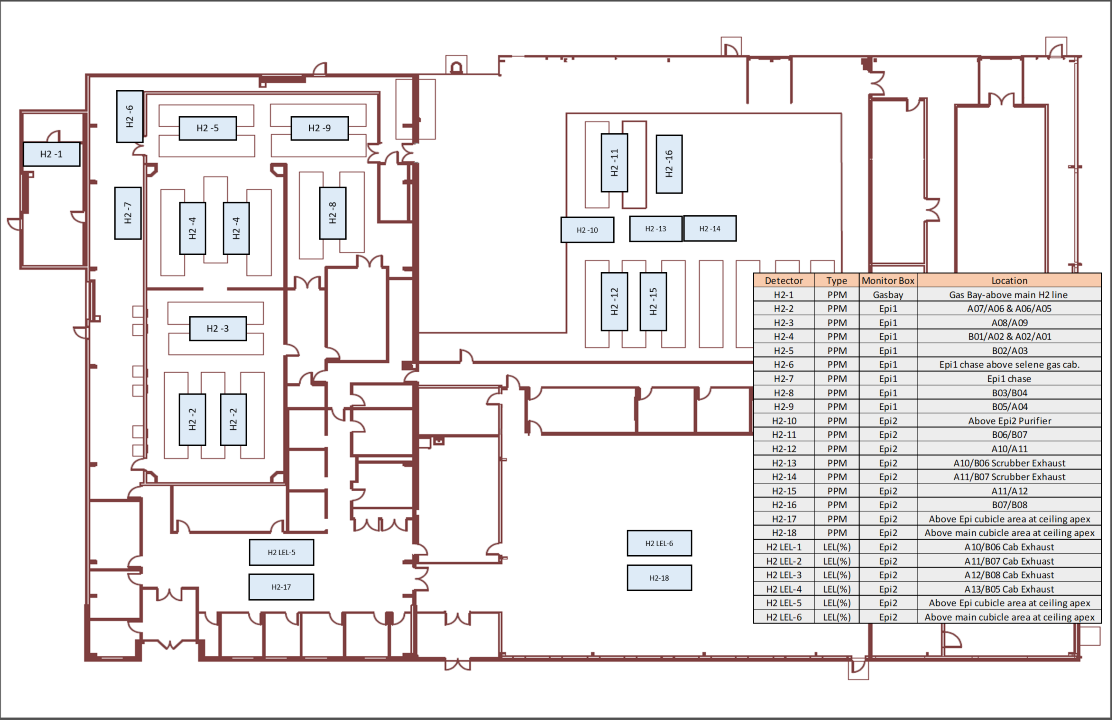
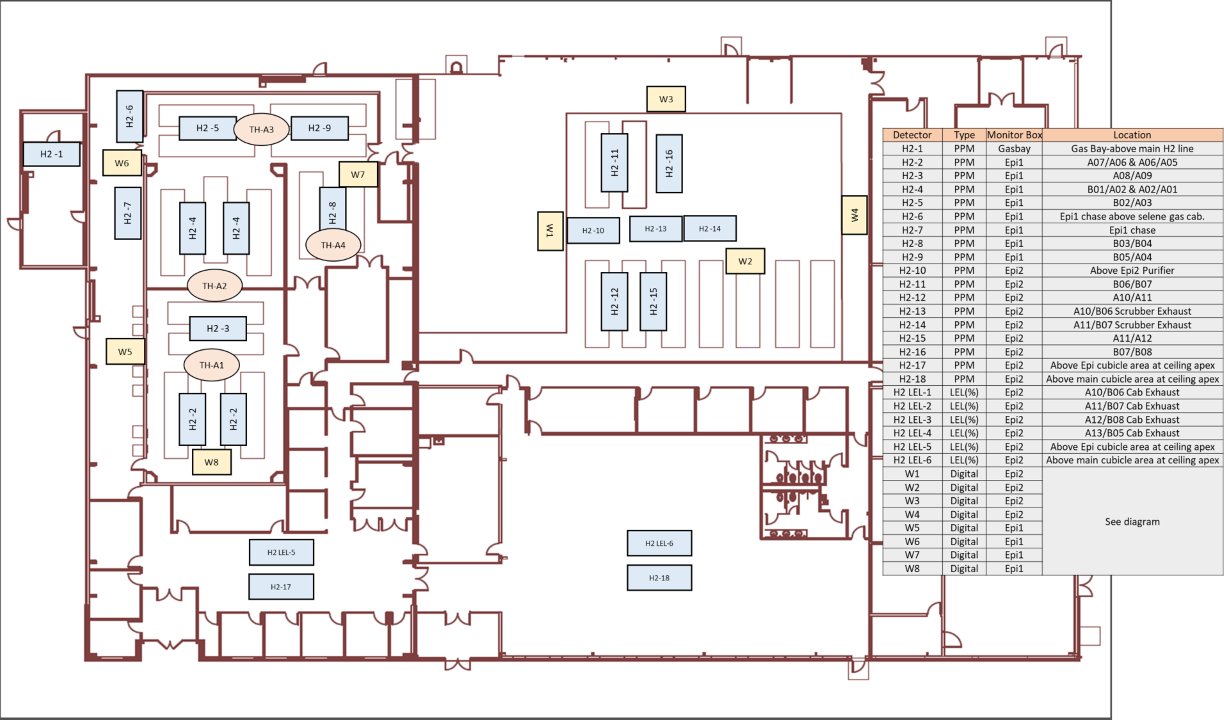
temperature and humidity monitoring

diff --git a/MonitoringWeb.WebApp/Services/PlotService.cs b/MonitoringWeb.WebApp/Services/PlotService.cs
@@ -1,4 +1,6 @@
-using MongoDB.Bson;
+using System.Text;
+using ClosedXML.Excel;
+using MongoDB.Bson;
 using MongoDB.Driver;
 using MonitoringSystem.Shared.Data.LogModel;
 using MonitoringWeb.WebApp.Data;
@@ -52,6 +54,43 @@ public class PlotDataService {
                 }
             }
             return analogReadings;
+        }
+
+        public async Task<byte[]> GetThDownloadData(DateTime start,DateTime stop) {
+            var client = new MongoClient("mongodb://172.20.3.41");
+            var database = client.GetDatabase("th_data");
+
+            var analogItems = database.GetCollection<AnalogItem>("analog_items").Find(e=>e.Display==true).ToList();
+            var analogReadings = database.GetCollection<AnalogReadings>("analog_readings");
+            var aReadings = await analogReadings.Find(e => e.timestamp >= start && e.timestamp <= stop)
+                .ToListAsync();
+            var headers = analogItems.Select(e => e.Identifier).ToList();
+            var wb = new XLWorkbook();
+            var worksheet=wb.Worksheets.Add("Consumption");
+            worksheet.AddPicture(@"/app/wwwroot/images/GasDetectorMap.png").MoveTo(worksheet.Cell("O2"));
+            worksheet.Cell(1, 1).Value = "timestamp";
+            for (int i = 0; i < headers.Count(); i++) {
+                worksheet.Cell(1, i + 2).Value = headers[i];
+            }
+
+            
+            int colCount = 1;
+            int rowCount = 2;
+            foreach(var readings in aReadings) {
+                StringBuilder builder = new StringBuilder();
+                worksheet.Cell(rowCount, colCount).Value = readings.timestamp.ToLocalTime().ToString();
+                colCount += 1;
+                foreach(var reading in readings.readings) {
+                    worksheet.Cell(rowCount, colCount).Value = reading.Value;
+                    colCount += 1;
+                }
+                rowCount += 1;
+                colCount = 1;
+            }
+
+            var stream =new MemoryStream();
+            wb.SaveAs(stream);
+            return stream.ToArray();
         }
         
         public async Task<IEnumerable<AnalogReadingDto>> GetData(string deviceData,ObjectId sensorId,DateTime start, DateTime stop) {

diff --git a/MonitoringSystem.ConsoleTesting/Program.cs b/MonitoringSystem.ConsoleTesting/Program.cs
@@ -84,8 +84,8 @@ namespace MonitoringSystem.ConsoleTesting {
             await modservice.WriteCoil("172.20.5.39", 502, 1, 2, false);*/
             //await WriteOutAnalogFile("nh3", new DateTime(2022, 9, 1), DateTime.Now, @"C:\MonitorFiles\analogreadings4.csv");
             //var client = new MongoClient("mongodb:");*/
-            //await RemoteAlertTesting();
-            await TestModbus();
+            await RemoteAlertTesting();
+            //await TestModbus();
 
         }
 
@@ -177,18 +177,6 @@ namespace MonitoringSystem.ConsoleTesting {
             await modservice.WriteCoil("172.20.5.201", 502, 1, 0, false);
             await modservice.WriteCoil("172.20.5.201", 502, 1, 2, false);
             Console.WriteLine("Test Done");
-            
-            /*bool state = false;
-            for (int i = 0; i < 20; i++) {
-                state = !state;
-                await modservice.WriteCoil("172.20.5.42", 502, 1, 0, state);
-                Console.WriteLine($"{DateTime.Now.ToString()}: {state}");
-                await Task.Delay(1000);
-            }
-            await modservice.WriteCoil("172.20.5.42", 502, 1, 0, false);
-            await modservice.WriteCoil("172.20.5.42", 502, 1, 2, false);*/
-            
-            //Console.WriteLine("Check System");
         }
         
         static async Task TestSmptEmail() {

diff --git a/MonitoringSystem.ConsoleTesting/CloneDatabase.cs b/MonitoringSystem.ConsoleTesting/CloneDatabase.cs
@@ -103,7 +103,7 @@ public class CloneDatabase {
         //await UsageNH3Testing("Tank1 Weight","Tank2 Weight");
         //Console.WriteLine();
        UsageService service = new UsageService();
-        //await service.GetH2Usage();
+        await service.GetH2Usage();
         //await service.GetN2Usage();
         //await service.GetNH3Usage();
         //await UsageH2Testing("H2 PSI");
